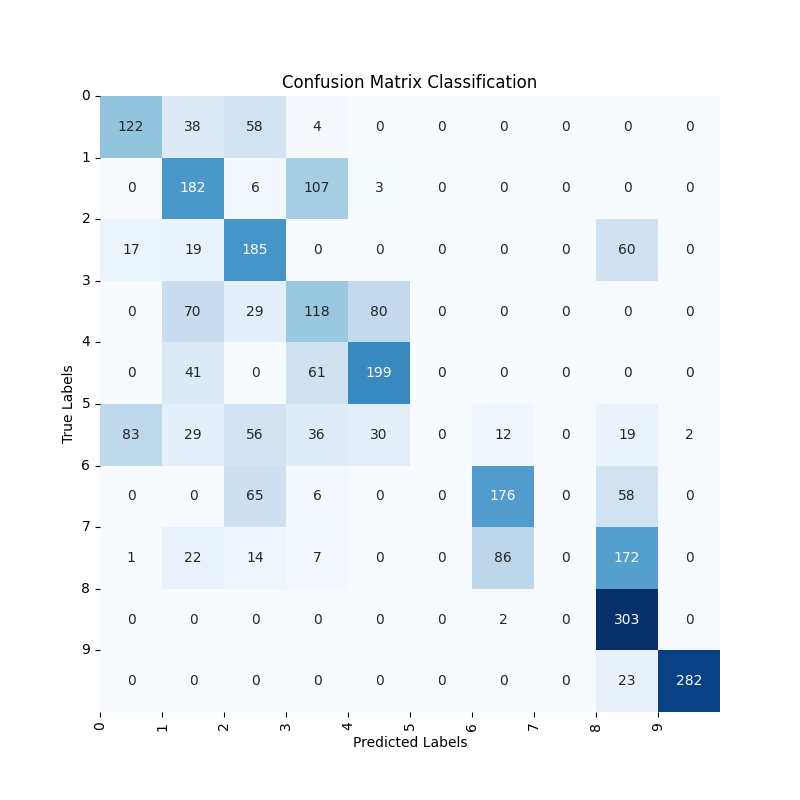
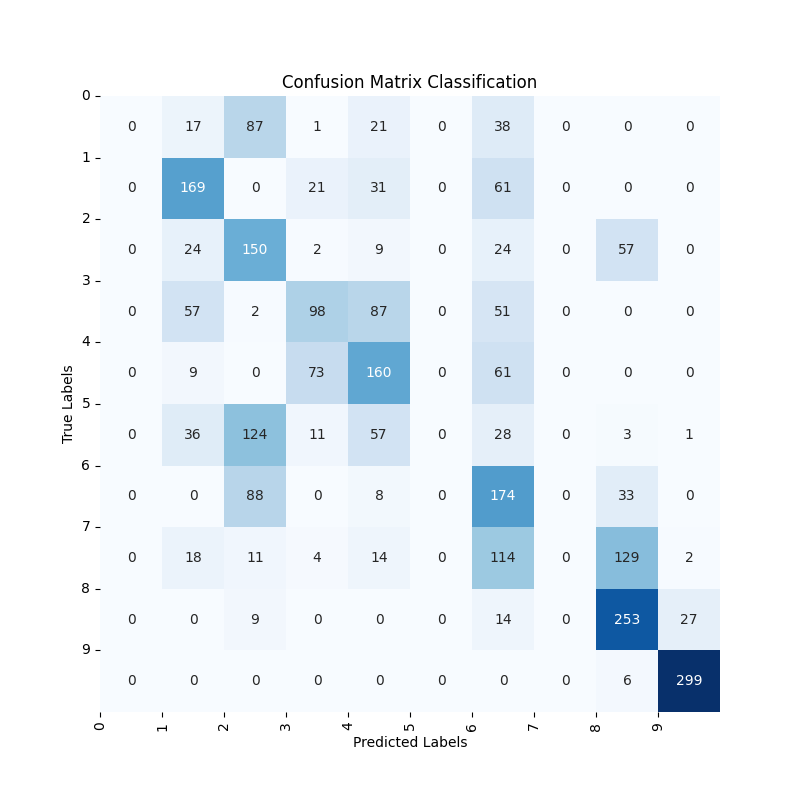
regression architecture

diff --git a/scripts/network.py b/scripts/network.py
@@ -15,20 +15,18 @@ class JointNetwork(nn.Module):
     def __init__(self, input_dim: int, output_dim: int, classify) -> None:
         super().__init__()
         if classify:
-            self.network = nn.Sequential(
-                nn.Flatten(),
-                nn.Linear(input_dim, 64),
-                nn.ReLU(), 
+            # self.network = nn.Sequential(
+            #     nn.Flatten(),
+            #     nn.Linear(input_dim, 64),
+            #     nn.ReLU(), 
 
-                nn.Linear(64, 64),
-                nn.ReLU(),
-                nn.Dropout(0.3),
+            #     nn.Linear(64, 64),
+            #     nn.ReLU(),
+            #     nn.Dropout(0.3),
 
-                nn.Linear(64, output_dim),
-                nn.Softmax(dim=1)
-            )
-        else:
-            # spot
+            #     nn.Linear(64, output_dim),
+            #     nn.Softmax(dim=1)
+            # )
             self.network = nn.Sequential(
                 nn.Flatten(),
                 nn.Linear(input_dim, 64),
@@ -45,28 +43,34 @@ class JointNetwork(nn.Module):
                 nn.ReLU(),
                 nn.Dropout(0.3),
 
+                nn.Linear(128, output_dim),
+                nn.Softmax(dim=1)
+            )
+        else:
+            # spot
+            self.network = nn.Sequential(
+                nn.Flatten(),
+                nn.Linear(input_dim, 64),
+                nn.ReLU(), 
+                nn.Dropout(0.3),
+
+                nn.Linear(64,128), 
+                nn.ReLU(),
+                nn.Dropout(0.3),
+                nn.Linear(128, 256),
+                nn.ReLU(),
+                nn.Dropout(0.3),
+                
+                nn.Linear(256, 128),
+                nn.ReLU(),
+                nn.Dropout(0.3),
+
+                nn.Linear(128, 128),
+                nn.ReLU(),
+
                 nn.Linear(128, output_dim)
                 
             )
-            # franka
-            # self.network = nn.Sequential(
-            #     nn.Flatten(),
-            #     nn.Linear(input_dim, 64),
-            #     nn.ReLU(), 
-
-            #     nn.Linear(64,128), 
-            #     nn.ReLU(),
-            #     nn.Dropout(0.3),
-            #     nn.Linear(128, 256),
-            #     nn.ReLU(),
-            #     nn.Dropout(0.3),
-            #     nn.Linear(256, 128),
-            #     nn.ReLU(),
-            #     nn.Dropout(0.3),
-
-            #     nn.Linear(128, output_dim)
-                
-            # )
     
     def forward(self, x):
 

diff --git a/scripts/train.py b/scripts/train.py
@@ -38,7 +38,7 @@ def main(num_classes, markers_path, classify, seq, robot_type):
         # accelerator="gpu",
         accelerator=device,
         # accelerator="cpu",
-        max_epochs= 10, # spot: 10
+        max_epochs= 15, # spot: 10
         logger=[tb_logger],
         callbacks=[checkpoint_callback, early_stop_callback]
     )
